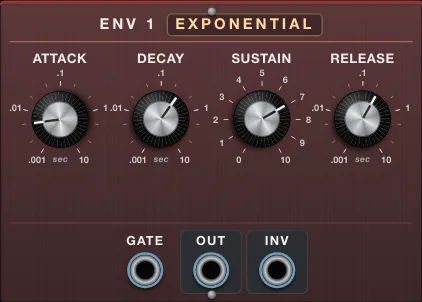
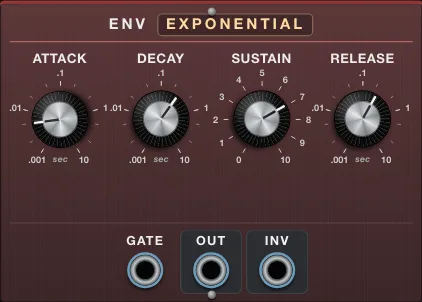
NF-ModRack: Quantizer scale menu; a module alone of its kind is not numbered
Quantizer: a drop-down menu of scales (shows 'Your own scale' after clicking keys).
Module names: just the kind ('VCO') when it is the only one in the rack, numbered
('VCO 1', 'VCO 2') when there are more: titles, cable readouts, graph titles, the
'taken out' message. Drawer pictures re-taken.

Changed region(s): [[0.2156, 0.0298, 0.7701, 0.1192]]

diff --git a/js/synths/modrack.js b/js/synths/modrack.js
@@ -374,19 +374,28 @@ const FIXED_OUTPUTS = Object.fromEntries(Object.entries(NFO).filter(([id]) => /^
 const OUT_SECTION = NF_LAYOUT.flat().find((s) => s.id === 'out');
 
 // One module's controls, inputs and outputs
-function moduleDef(inst) {
+// A module's name in the rack: just its kind ('VCO') when it is the only one of its kind, numbered
+// ('VCO 1', 'VCO 2') when there are more. rows: the rack's rows of module ids.
+export function moduleName(inst, rows) {
   const [type, n] = typeOf(inst);
-  const t = TYPES[type];
+  if (!type) return inst;
+  const same = rows.flat().filter((id) => typeOf(id)[0] === type).length;
+  return same > 1 ? `${TYPES[type].name} ${n}` : TYPES[type].name;
+}
+
+function moduleDef(inst, rows) {
+  const [type, n] = typeOf(inst);
+  const t = TYPES[type], name = moduleName(inst, rows);
   const params = {}, outputs = {};
   const own = t.specs; // a module of the NF-ModRack's own (the Resonator) has its own controls
   t.params.forEach((c) => { params[`${inst}.${c}`] = { ...(own ? own.params[c] : NFP[`${t.p}.${c}`]) }; });
-  if (params[`${inst}.curve`]) params[`${inst}.curve`].label = `${t.name} ${n} shape`;
+  if (params[`${inst}.curve`] && type === 'env') params[`${inst}.curve`].label = `${name} shape`;
   t.ins.forEach((c) => { const src = own ? own.ins[c] : NFP[`jack.${t.j}.${c}`] || jack; params[`jack.${inst}.${c}`] = { ...src, def: '' }; });
-  t.outs.forEach((o) => { const src = own ? own.outs[outName(o)] : NFO[outSrc(t, o)]; outputs[`${inst}.${outName(o)}`] = { ...src, module: `${t.name} ${n}` }; });
+  t.outs.forEach((o) => { const src = own ? own.outs[outName(o)] : NFO[outSrc(t, o)]; outputs[`${inst}.${outName(o)}`] = { ...src, module: name }; });
   const P = PANELS[type];
   const full = (c) => (Array.isArray(c) ? c.map(full) : `${inst}.${c}`);
   const sock = (c) => (Array.isArray(c) ? c.map(sock) : c.startsWith('out:') ? `out:${inst}.${c.slice(4)}` : `jack.${inst}.${c}`);
-  const section = { id: inst, title: `${t.name} ${n}`, type, even: n % 2 === 0, removable: true };
+  const section = { id: inst, title: name, type, even: n % 2 === 0, removable: true };
   if (P.parts) section.parts = P.parts.map((part) => ({ rows: part.rows.map((r) => r.map(full)), jacks: part.jacks.map(sock) }));
   else { section.rows = P.rows.map((r) => r.map(full)); section.jacks = P.jacks.map(sock); }
   if (P.titleSwitch) section.titleSwitch = `${inst}.${P.titleSwitch}`;
@@ -404,7 +413,7 @@ export function build(layout, bays = 1) {
   const OUTPUTS = { ...FIXED_OUTPUTS };
   const LAYOUT = rows.map((row) => row.map((inst) => {
     if (inst === 'out') return { ...OUT_SECTION, movable: true };
-    const d = moduleDef(inst);
+    const d = moduleDef(inst, rows);
     Object.assign(PARAMS, d.params);
     Object.assign(OUTPUTS, d.outputs);
     return d.section;
@@ -660,5 +669,5 @@ export const MODRACK = {
   },
   PARAMS: START.PARAMS, LAYOUT: START.LAYOUT, KEYBED_SECTIONS, SIDE_SECTIONS, PRESETS,
   initName: INIT_NAME,
-  build, parseLayout, layoutString, initCables, rowWidth, rowUsed, MAX_BAYS,
+  build, parseLayout, layoutString, initCables, rowWidth, rowUsed, MAX_BAYS, moduleName,
 };

diff --git a/js/scaleScreen.js b/js/scaleScreen.js
@@ -1,6 +1,6 @@
 // The NF-ModRack's Quantizer: its screen. One octave of keys, C to B: the lit keys are in the scale
 // (from its root), and the note it is playing now glows. Click a key to put it in or take it out
-// (making your own scale); ◂ ▸ step through the ready-made scales. Behaves like a control for the
+// (making your own scale); the menu chooses a ready-made scale. Behaves like a control for the
 // 'mask' setting: twelve 1s and 0s, the first for the root, the next for a semitone above, and so on.
 
 import { PARAMS } from './params.js';
@@ -23,19 +23,17 @@ export class ScaleScreen {
     this.el.dataset.param = id;
     this.el.innerHTML = `
       <div class="ne-bar" style="width:${W}px">
-        <span class="ne-group"><button class="ne-btn sc-prev" title="The previous scale">◂</button><button class="ne-btn sc-next" title="The next scale">▸</button></span>
-        <span class="tb-name sc-name"></span>
+        <select class="sc-menu" aria-label="Scale">${SCALES.map(([name, m]) => `<option value="${m}">${name}</option>`).join('')}<option value="" disabled>Your own scale</option></select>
       </div>
       <canvas class="ne-screen scale-screen" data-help="${id}"></canvas>`;
     this.cv = this.el.querySelector('canvas');
     this.cv.style.width = W + 'px';
     this.cv.style.height = H + 'px';
-    const step = (d) => {
-      const i = SCALES.findIndex(([, m]) => m === this.value);
-      this.commit(SCALES[(i + d + SCALES.length) % SCALES.length][1]);
-    };
-    this.el.querySelector('.sc-prev').addEventListener('click', (e) => { e.stopPropagation(); step(-1); });
-    this.el.querySelector('.sc-next').addEventListener('click', (e) => { e.stopPropagation(); step(1); });
+    this.menu = this.el.querySelector('.sc-menu');
+    this.menu.addEventListener('change', () => { if (this.menu.value) this.commit(this.menu.value); this.menu.blur(); });
+    // (keys pressed while the menu has focus must not play notes)
+    this.menu.addEventListener('keydown', (e) => e.stopPropagation());
+    this.menu.addEventListener('keyup', (e) => e.stopPropagation());
     this.cv.addEventListener('pointerdown', (e) => { e.preventDefault(); e.stopPropagation(); this.click(e); });
     this.set(value);
     this.loop();
@@ -43,7 +41,7 @@ export class ScaleScreen {
 
   set(value) {
     this.value = value;
-    this.el.querySelector('.sc-name').textContent = (SCALES.find(([, m]) => m === value) || ['Your own scale'])[0];
+    this.menu.value = SCALES.some(([, m]) => m === value) ? value : ''; // (one of your own: shown as such)
     this.draw();
   }
   commit(value) { if (value === this.value || !value.includes('1')) return; this.set(value); this.onChange(this.id, value); }

diff --git a/js/visuals.js b/js/visuals.js
@@ -11,7 +11,7 @@
 //   detune     -> zoomed spectrum of the two close peaks; scope.js shows the slow beating
 
 import { PARAMS, formatValue } from './params.js';
-import { pingPartial, MATERIALS, formantsAt, VOWELS } from './synths/modrack.js';
+import { pingPartial, MATERIALS, formantsAt, VOWELS, parseLayout, moduleName } from './synths/modrack.js';
 
 const AMBER = '#ffb547';
 const AMBER_DIM = 'rgba(255, 181, 71, 0.55)';
@@ -666,8 +666,8 @@ export class Overlay {
     }
     ctx.restore();
     const name = (MATERIALS.find(([v]) => Math.abs(v - stretch) < 0.04) || [])[1];
-    const num = inst.slice(4);
-    label(ctx, `PING ${num} · ${count} PARTIAL${count > 1 ? 'S' : ''} · STRETCH ${stretch.toFixed(2)}${name ? ' · ' + name.toUpperCase() : ''}`, PAD.l, 16, AMBER, 'left', 10.5, 800);
+    const title = moduleName(inst, parseLayout(p['rack.layout'], p['rack.bays'] || 1)).toUpperCase();
+    label(ctx, `${title} · ${count} PARTIAL${count > 1 ? 'S' : ''} · STRETCH ${stretch.toFixed(2)}${name ? ' · ' + name.toUpperCase() : ''}`, PAD.l, 16, AMBER, 'left', 10.5, 800);
     label(ctx, `partial n rings at the note × n^${stretch.toFixed(2)}${Math.abs(stretch - 1) < 0.02 ? ': the harmonic series, all in tune' : stretch < 1 ? ': squeezed closer than harmonics' : ': spread wider than harmonics'}`, PAD.l, 30, HI, 'left', 10.5, 600);
     label(ctx, `note ${fmtHz(f0)} (${noteName(note)}) · Tone sets their height`, w - PAD.r, 16, AMBER_DIM, 'right', 10, 600);
     label(ctx, '┆ = harmonics (×2, ×3…), for comparison', w - PAD.r, 30, AMBER_DIM, 'right', 9.5, 600);
@@ -714,7 +714,7 @@ export class Overlay {
     const WORDS = ['father', 'bed', 'beet', 'bought', 'boot'];
     const i = Math.round(vowel), exact = Math.abs(vowel - i) < 0.08;
     const name = exact ? `"${VOWELS[i].name}" as in ${WORDS[i]}` : `between ${VOWELS[Math.floor(vowel)].name} and ${VOWELS[Math.min(4, Math.floor(vowel) + 1)].name}`;
-    label(ctx, `FORMANT ${inst.slice(7)} · VOWEL ${name.toUpperCase()}`, PAD.l, 16, AMBER, 'left', 10.5, 800);
+    label(ctx, `${moduleName(inst, parseLayout(p['rack.layout'], p['rack.bays'] || 1)).toUpperCase()} · VOWEL ${name.toUpperCase()}`, PAD.l, 16, AMBER, 'left', 10.5, 800);
     label(ctx, 'the vowel you hear is set by where F1 and F2 sit; F3 adds the voice\'s colour', PAD.l, 30, HI, 'left', 10.5, 600);
     label(ctx, `Shift ${shift > 0.005 ? '+' : ''}${shift.toFixed(2)} oct · bandwidth ${Math.round(bw)} Hz`, w - PAD.r, 16, AMBER_DIM, 'right', 10, 600);
   }

diff --git a/js/help.js b/js/help.js
@@ -784,9 +784,9 @@ export const HELP_MODRACK = {
   'out:probe.thru': { title: 'Probe: Thru', body: ['A, passed on unchanged.'] },
   'section:quant': { title: 'Quantizer', body: [
     'Snaps a pitch to the nearest note of a scale. Random steps from the S&H, a sweep from the XY pad, a Bounce: whatever goes in comes out as notes of the scale, in tune.',
-    'The keys show the scale: lit keys are in it, the root is marked ●, and the note it is playing now glows. ◂ ▸ step through ready-made scales; click keys to put notes in or take them out and make your own. Root moves the whole scale to another key.'],
+    'The keys show the scale: lit keys are in it, the root is marked ●, and the note it is playing now glows. Choose a ready-made scale from the menu, or click keys to put notes in or take them out and make your own. Root moves the whole scale to another key.'],
     tip: 'S&H Out into In, Out into a VCO\'s Pitch, and Trig into an ENV\'s Gate: a random melody that always stays in the scale.' },
-  'quant.mask': { title: 'The scale', body: ['Which notes are in the scale (the lit keys). Click a key to put it in or take it out. ◂ ▸: major, minor, the pentatonics, blues, dorian, harmonic minor, whole tone, and octaves or fifths only.'] },
+  'quant.mask': { title: 'The scale', body: ['Which notes are in the scale (the lit keys). Choose one from the menu (major, minor, the pentatonics, blues, dorian, harmonic minor, whole tone, or octaves or fifths only), or click keys to put notes in or take them out and make your own.'] },
   'quant.root': { title: 'Root', body: ['The key of the scale: the note it starts on. Turn it to play the same scale in another key.'] },
   'jack.quant.in': { title: 'Quantizer: In', body: ['A pitch, at 1 volt per octave (or any control signal: it is treated as one).'] },
   'out:quant.out': { title: 'Quantizer: Out', body: ['The nearest note of the scale, at 1 volt per octave. It only moves to another note once the input is clearly nearer it, so a wobbly input does not flicker between two.'] },

diff --git a/css/synth.css b/css/synth.css
@@ -1500,3 +1500,6 @@ body[data-skin="modular"] .section[data-type="quant"].even { --mod: #63a87b; }
 body[data-skin="modular"] .section[data-type="probe"] { --mod: #3a3f46; } /* Probe: instrument grey */
 .probe-cell { display: flex; padding: 2px 0 2px 2px; }
 .scale-screen { cursor: pointer; }
+.sc-menu { font: 700 11px/1 inherit; font-family: inherit; letter-spacing: 0.04em; color: #ececec; background: #1a1c1f; border: 1px solid rgba(255,255,255,0.18);
+  border-radius: 4px; padding: 4px 6px; cursor: pointer; max-width: 100%; }
+.sc-menu:focus-visible { outline: 1px solid #ffb547; }

diff --git a/js/rackEdit.js b/js/rackEdit.js
@@ -175,8 +175,9 @@ export class RackEdit {
 
   remove(id) {
     const rows = this.getRows().map((r) => r.filter((x) => x !== id));
-    const [type, n] = typeOf(id);
-    if (this.change(rows) && type) this.toast(`${TYPES[type].name} ${n} taken out of the rack`);
+    const [type] = typeOf(id);
+    const name = (this.root.querySelector(`.section[data-section="${id}"] .section-title > span`) || {}).textContent || (type ? TYPES[type].name : id);
+    if (this.change(rows) && type) this.toast(`${name} taken out of the rack`);
     this.refreshCards();
   }
 
